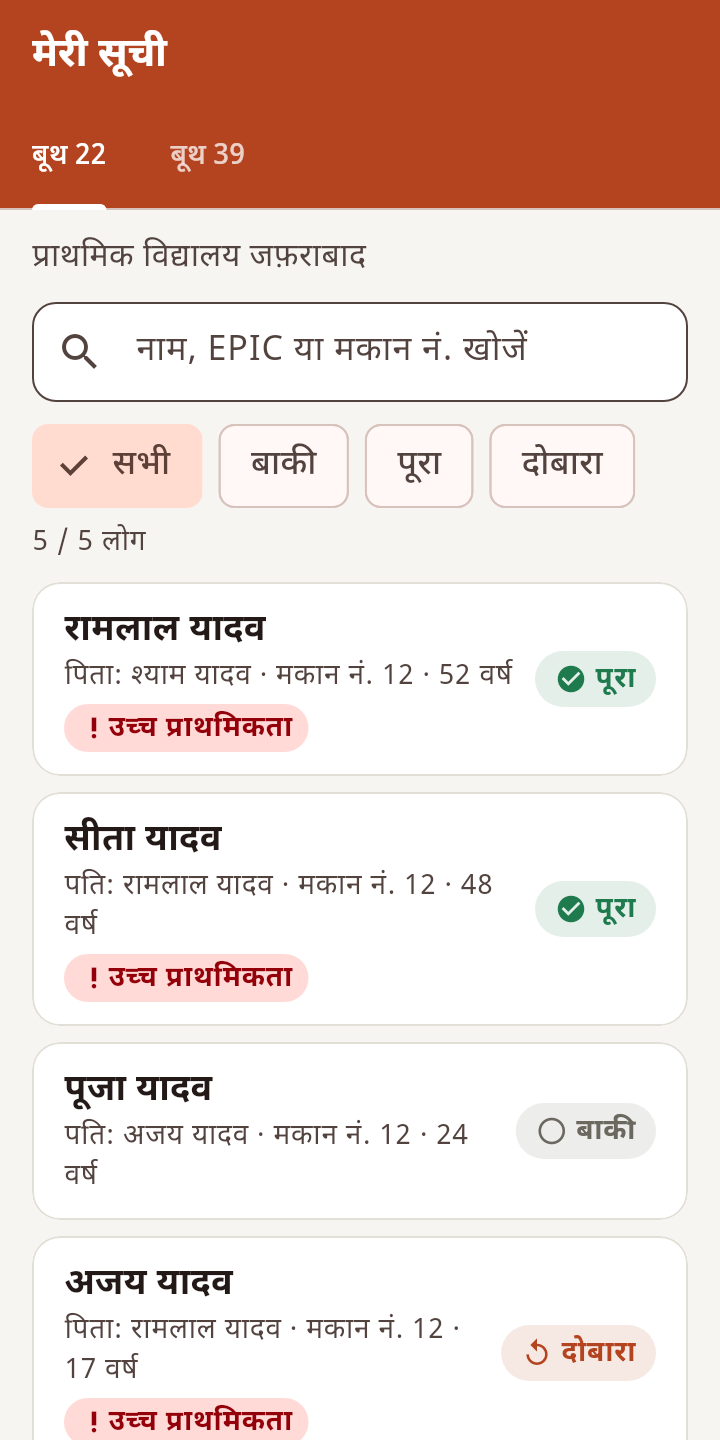
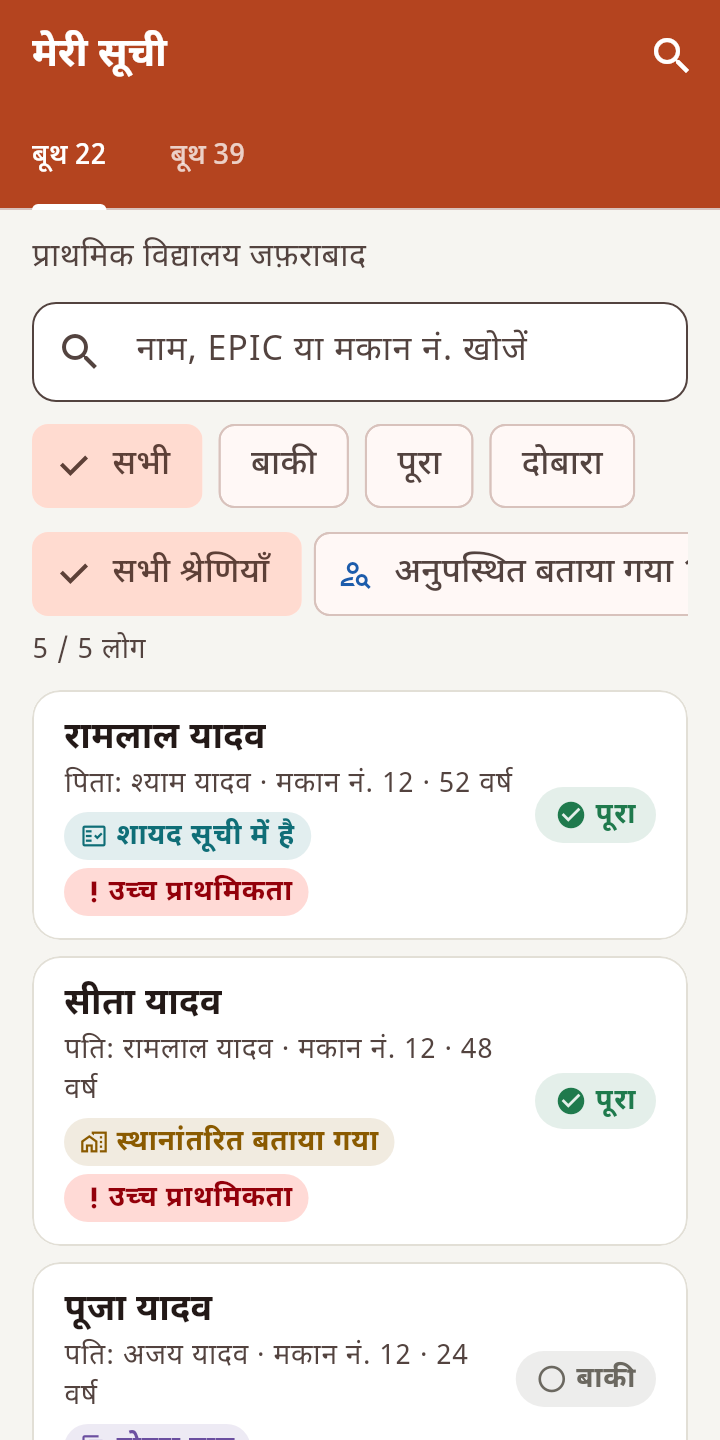
Screen previews: search screen, categories on people
Claude-Session: https://claude.ai/code/session_018SnJQWVpndYXc39DbVGTA1

diff --git a/app/test_live/screens_preview_test.dart b/app/test_live/screens_preview_test.dart
@@ -14,6 +14,7 @@ import 'package:dastak/src/data/field_store.dart';
 import 'package:dastak/src/data/models.dart';
 import 'package:dastak/src/ui/booth_list_screen.dart';
 import 'package:dastak/src/ui/person_screen.dart';
+import 'package:dastak/src/ui/search_screen.dart';
 import 'package:dastak/src/ui/form_detail_screen.dart';
 import 'package:dastak/src/ui/forms_screen.dart';
 import 'package:dastak/src/ui/login_screen.dart';
@@ -208,6 +209,10 @@ void main() {
       height: 1800,
     );
   });
+  testWidgets(
+    'search',
+    (tester) => shoot(tester, 'search', const PersonSearchScreen()),
+  );
   testWidgets('forms', (tester) => shoot(tester, 'forms', const FormsScreen()));
   testWidgets('sync', (tester) => shoot(tester, 'sync', const SyncScreen()));
   testWidgets(
